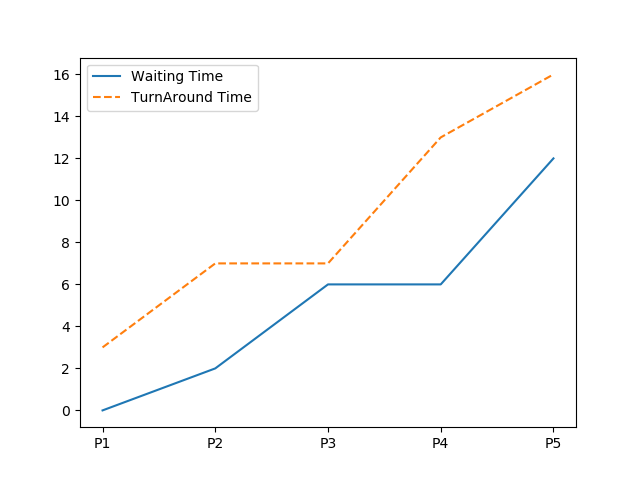
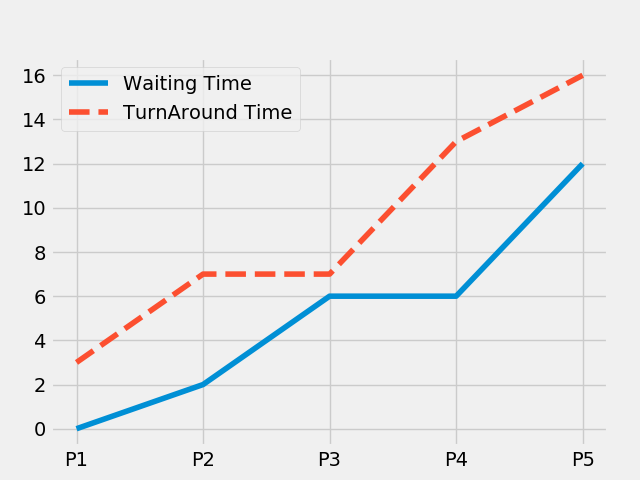
pt a

diff --git a/src/FCFS.py b/src/FCFS.py
@@ -1,5 +1,7 @@
 import matplotlib.pyplot as plt
 
+plt.style.use('fivethirtyeight')
+
 ## Finds waiting time for each process
 def findWaitingTime(processes,  burst_time, waiting_time, arrival_time):  
     service_time = [0] *len(processes) 
@@ -27,9 +29,7 @@ def findavgTime(processes,  burst_time, arrival_time):
     turn_around_time = [0] *len(processes) 
     findWaitingTime(processes,  burst_time, waiting_time, arrival_time)  
     findTurnAroundTime(processes,  burst_time, waiting_time, turn_around_time)  
-  
-    print("Processes   Burst Time   Arrival Time     Waiting",  
-          "Time   Turn-Around Time  Completion Time \n") 
+
     total_wt = 0
     total_turn_around_time = 0
     compl_time = [0]*len(processes)
@@ -40,17 +40,40 @@ def findavgTime(processes,  burst_time, arrival_time):
         # Calculate completion time
 
         compl_time[i] = turn_around_time[i] + arrival_time[i] 
-        print(" ", i + 1, "\t\t", burst_time[i], "\t\t", arrival_time[i],  
-              "\t\t", waiting_time[i], "\t\t ", turn_around_time[i], "\t\t ", compl_time[i])  
-  
-    print("Average waiting time = %.5f "%(total_wt /len(processes))) 
-    print("\nAverage turn around time = ", total_turn_around_time / len(processes))  
-    print('\nThroughput = ', len(processes)/ compl_time[len(processes)-1])
-    print('\nAverage Job elapsed time = ',total_turn_around_time/len(processes))
+
     return waiting_time , turn_around_time ,compl_time
 
 
+def plot_graph(processes,waiting_time,compl_time,turn_around_time):
+
+    plt.plot(processes,waiting_time,label = "Waiting time")
+    plt.plot(processes,compl_time,label = "Completion time")
+    plt.plot(processes,turn_around_time,label = "Turnaround Time")
+    plt.text(4,2,'Throughput = %.5f'  % (len(processes)/ compl_time[len(processes)-1]))
+    plt.title("First Come First Serve Algo")
+    plt.xlabel("Processes")
+    plt.ylabel("Time Units")
+    plt.legend()
+    plt.savefig('./output/FCFS_output.png')
+    plt.show()
+
+
+
+def print_details(processes,waiting_time,turn_around_time,compl_time,burst_time,arrival_time):
+      
+    print("Processes   Burst Time   Arrival Time     Waiting",  
+          "Time   Turn-Around Time  Completion Time \n") 
+    for i in range(len(processes)):
+        print(" ", processes[i] , "\t\t", burst_time[i], "\t\t", arrival_time[i],  
+              "\t\t", waiting_time[i], "\t\t ", turn_around_time[i], "\t\t ", compl_time[i])  
+  
+    print("Average waiting time = %.5f "%(sum(waiting_time) /len(processes))) 
+    print("\nAverage turn around time = ", sum(turn_around_time) / len(processes))  
+    print('\nThroughput = ', len(processes)/ compl_time[len(processes)-1])
+
+
 # driver function
+
 def fcfs():
  
     processes = []
@@ -67,18 +90,12 @@ def fcfs():
 
     #returned waiting time and turn around time
     waiting_time , turn_around_time, compl_time = findavgTime(processes,  burst_time, arrival_time)
-    #plotting 
-    plt.plot(processes,waiting_time,label = "Waiting time")
-    plt.plot(processes,compl_time,label = "Completion time")
-    plt.plot(processes,turn_around_time,label = "Turnaround Time")
-    plt.text(4,2,'Throughput = %.5f'  % (len(processes)/ compl_time[len(processes)-1]))
-    plt.title("First Come First Serve Algo")
-    plt.xlabel("Processes")
-    plt.ylabel("Time Units")
-    plt.legend()
-    plt.savefig('./output/FCFS_output.png')
-    plt.show()
-    input()
+    
+    #print details about data
+    print_details(processes,waiting_time,turn_around_time,compl_time,burst_time,arrival_time)
 
+    #plotting 
+    plot_graph(processes,waiting_time,compl_time,turn_around_time)
+    
 if __name__ =="__main__": 
     fcfs()

diff --git a/src/PRIORITY_NP.py b/src/PRIORITY_NP.py
@@ -1,5 +1,8 @@
 import matplotlib.pyplot as plt;
 
+plt.style.use('fivethirtyeight')
+
+
 def get_wt_time( wt, proc, totalprocess):  
   
     service = [0] * 5
@@ -14,11 +17,13 @@ def get_wt_time( wt, proc, totalprocess):
         if(wt[i] < 0) :      
             wt[i] = 0
           
+
 def get_tat_time(tat, wt, proc, totalprocess):  
   
     for i in range(totalprocess): 
         tat[i] = proc[i][1] + wt[i]  
   
+
 def findgc(proc, totalprocess): 
       
     wt = [0] * 5
@@ -39,24 +44,38 @@ def findgc(proc, totalprocess):
     for i in range(1, totalprocess):  
         stime[i] = ctime[i - 1]  
         ctime[i] = stime[i] + tat[i] - wt[i]  
-  
-    print("Process_no\tStart_time\tComplete_time", 
-               "\tTurn_Around_Time\tWaiting_Time") 
-  
+
     for i in range(totalprocess): 
         wavg += wt[i]  
         tavg += tat[i]  
           
-        print(proc[i][3], "\t\t", stime[i],  
-                         "\t\t", end = " ") 
+    return wt , tat  , ctime
+
+#print Details of each process
+def print_details(processes,tat,wt,ctime,proc):
+
+    print("Process_no\tArrival_time\tCompletetion_time\tTurn_Around_Time\tWaiting_Time") 
+  
+    for i in range(len(processes)):
+
+        print(processes[i], "\t\t", proc[i][0],  "\t\t", end = " ") 
         print(ctime[i], "\t\t", tat[i], "\t\t\t", wt[i])  
   
     print("Average waiting time is : ", end = " ") 
-    print(wavg / totalprocess) 
+    print(sum(wt) / len(processes)) 
     print("average turnaround time : " , end = " ") 
-    print(tavg / totalprocess) 
+    print(sum(tat) / len(processes)) 
   
-    return wt , tat
+
+#plots graph 
+def plot_graph(processes,wt,tat):
+
+    plt.plot(processes, wt, '-',label='Waiting Time')
+    plt.plot(processes, tat, '--',label = 'TurnAround Time')
+    plt.legend(loc='best')
+    plt.savefig('./output/PRIORITY_NP_output.png')
+    plt.show()
+
 
 # Driver code  
 def priority_np():
@@ -74,10 +93,6 @@ def priority_np():
             arrival_time.append(int(arrival))
             priority.append(int(prior)) 
     
-    print(processes)
-    print(burst_time)
-    print(arrival_time)
-    print(priority)
 
     totalprocess = 5
     proc = []
@@ -97,13 +112,9 @@ def priority_np():
     proc = sorted (proc, key = lambda x:x[2]) 
     proc = sorted (proc) 
       
-    wt, tat = findgc(proc,totalprocess) 
-
-    plt.plot(processes, wt, '-',label='Waiting Time')
-    plt.plot(processes, tat, '--',label = 'TurnAround Time')
-    plt.legend(loc='best')
-    plt.savefig('./output/PRIORITY_NP_output.png')
-    plt.show()
+    wt, tat ,ctime= findgc(proc,totalprocess) 
+    print_details(processes,tat,wt,ctime,proc)
+    plot_graph(processes,wt,tat)
 
 
 

diff --git a/src/CompareAll.py b/src/CompareAll.py
@@ -1,0 +1,41 @@
+from src import PRIORITY_NP
+from src import FCFS
+from src import PRIORITY_P
+from src import ROUND_ROBIN
+import matplotlib.pyplot as plt
+import numpy as np
+
+plt.style.use('fivethirtyeight')
+
+def compare():
+    processes =[]
+    arrival_time = []
+    burst_time = []
+    priorities = []
+    quantum = 5
+    with open('./inputs/Compare.txt','r') as  f:
+        f.readline()
+
+        for line in f.readlines():
+            process , burst , arrival, priority = (line.strip()).split(" ")
+            
+            processes.append(process)
+            burst_time.append(int(burst))
+            arrival_time.append(int(arrival))
+            priorities.append(int(priority))
+            
+    x = np.arange(len(processes)) 
+    f_waiting, f_turn_around ,f_compl_time = FCFS.findavgTime(processes,burst_time,arrival_time)
+      # n changes
+    r_waiting,r_turn_around,r_compl_time = ROUND_ROBIN.findavgTime(processes, len(processes), burst_time,arrival_time, quantum) 
+
+    np_waiting , np_turn_around, np_compl_time = PRIORITY_NP.findgc(proc,len(processes))
+
+    plt.bar(x, f_waiting, width = 0.25,label = "FCFS")
+    plt.bar(x + 0.25, r_waiting, width = 0.25,label = "RR" )
+    plt.bar(x+0.5,np_waiting,width=0.25,label="NP")
+    plt.xticks(x,processes)
+
+   # ax.bar(X + 0.50, data[2], color = 'r', width = 0.25)
+    plt.legend()
+    plt.show()

diff --git a/main.py b/main.py
@@ -24,7 +24,7 @@ def choose(choice):
     elif choice == 6:
         src.round_robin()
     elif choice == 7:
-        pass
+        src.compare()
     else:
         print("=========== Enter Valid Choice ==========")
         input("\n press any button to continue.....")
@@ -44,12 +44,13 @@ def main():
         print("\n0.Exit\n")
         try:
             choice = int(input("\nENTER YOUR OPTION:"))
-            choose(choice)
         except ValueError:
             os.system(clear)
             print("=========== Enter Valid Choice ==========")
             input("\n press any button to continue.....")
             continue
+        choose(choice)
+        input(" ")
         os.system(clear)
 if __name__ == "__main__":
     main()

diff --git a/src/ROUND_ROBIN.py b/src/ROUND_ROBIN.py
@@ -1,7 +1,8 @@
 import matplotlib.pyplot as plt
 from statistics import mean
 
-f, (ax1, ax2) = plt.subplots(1, 2, sharey=True)
+plt.style.use('fivethirtyeight')
+
 
 
 def findWaitingTime(processes, n, burst_time, waiting_time, quantum):  
@@ -95,6 +96,7 @@ def print_details(processes,burst_time,waiting_time,compl_time,tat):
 
 
 def round_robin():
+    f, (ax1, ax2) = plt.subplots(1, 2, sharey=True)
     processes = []
     burst_time = []
     arrival_time = []

diff --git a/src/__init__.py b/src/__init__.py
@@ -2,3 +2,4 @@ from .FCFS import fcfs
 from .PRIORITY_NP import priority_np
 from .PRIORITY_P import priority_p
 from .ROUND_ROBIN import round_robin
+from .CompareAll import compare

diff --git a/src/PRIORITY_P.py b/src/PRIORITY_P.py
@@ -1,4 +1,8 @@
 import matplotlib.pyplot as plt
+
+plt.style.use('fivethirtyeight')
+
+
 processes = []  
 tat = []
 twt = []
